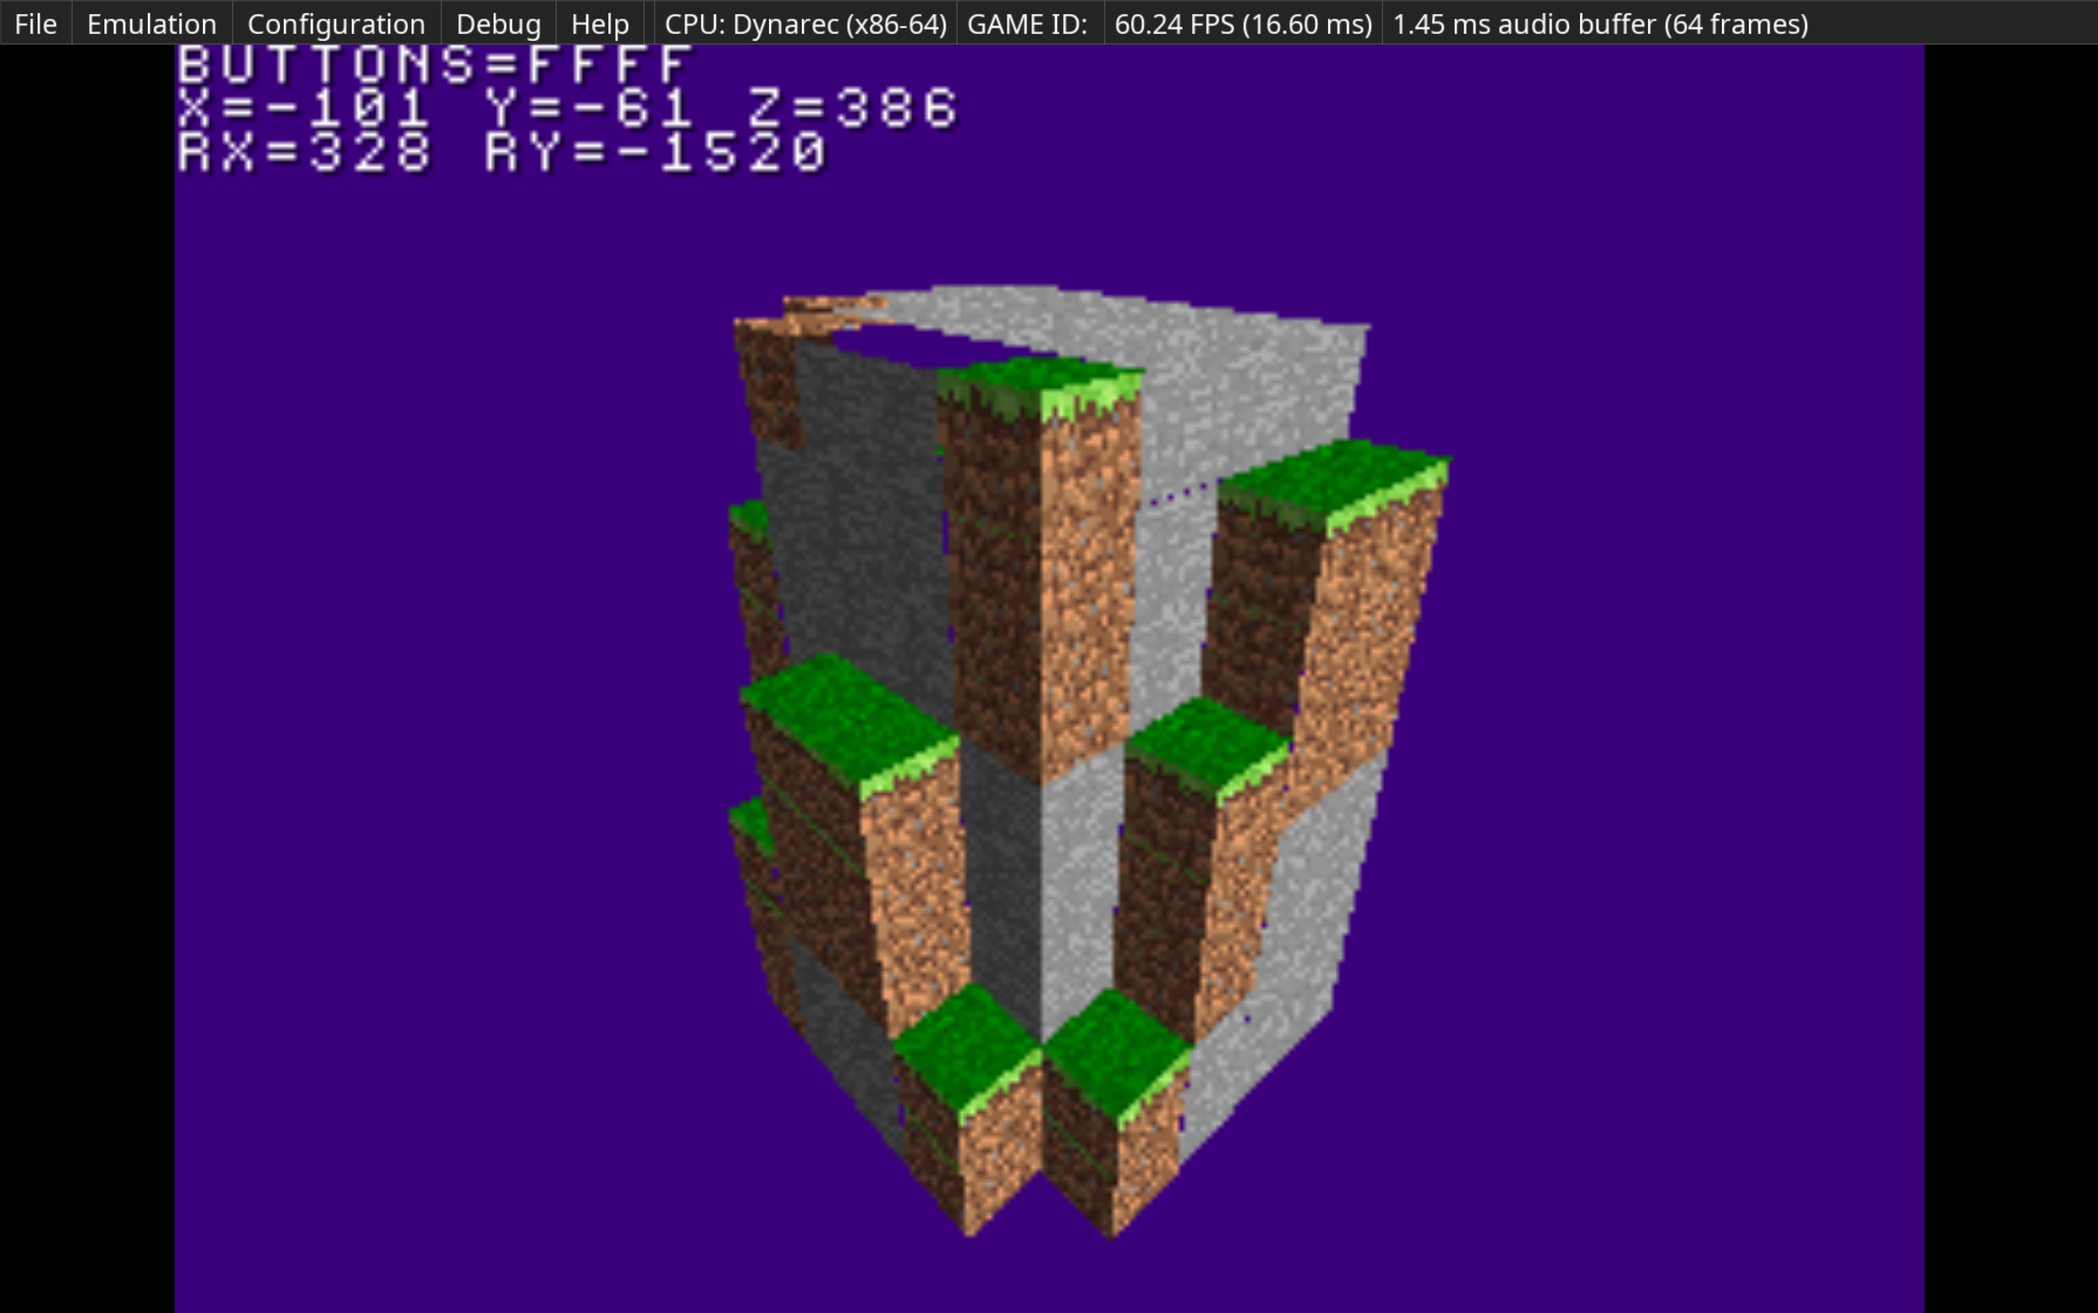
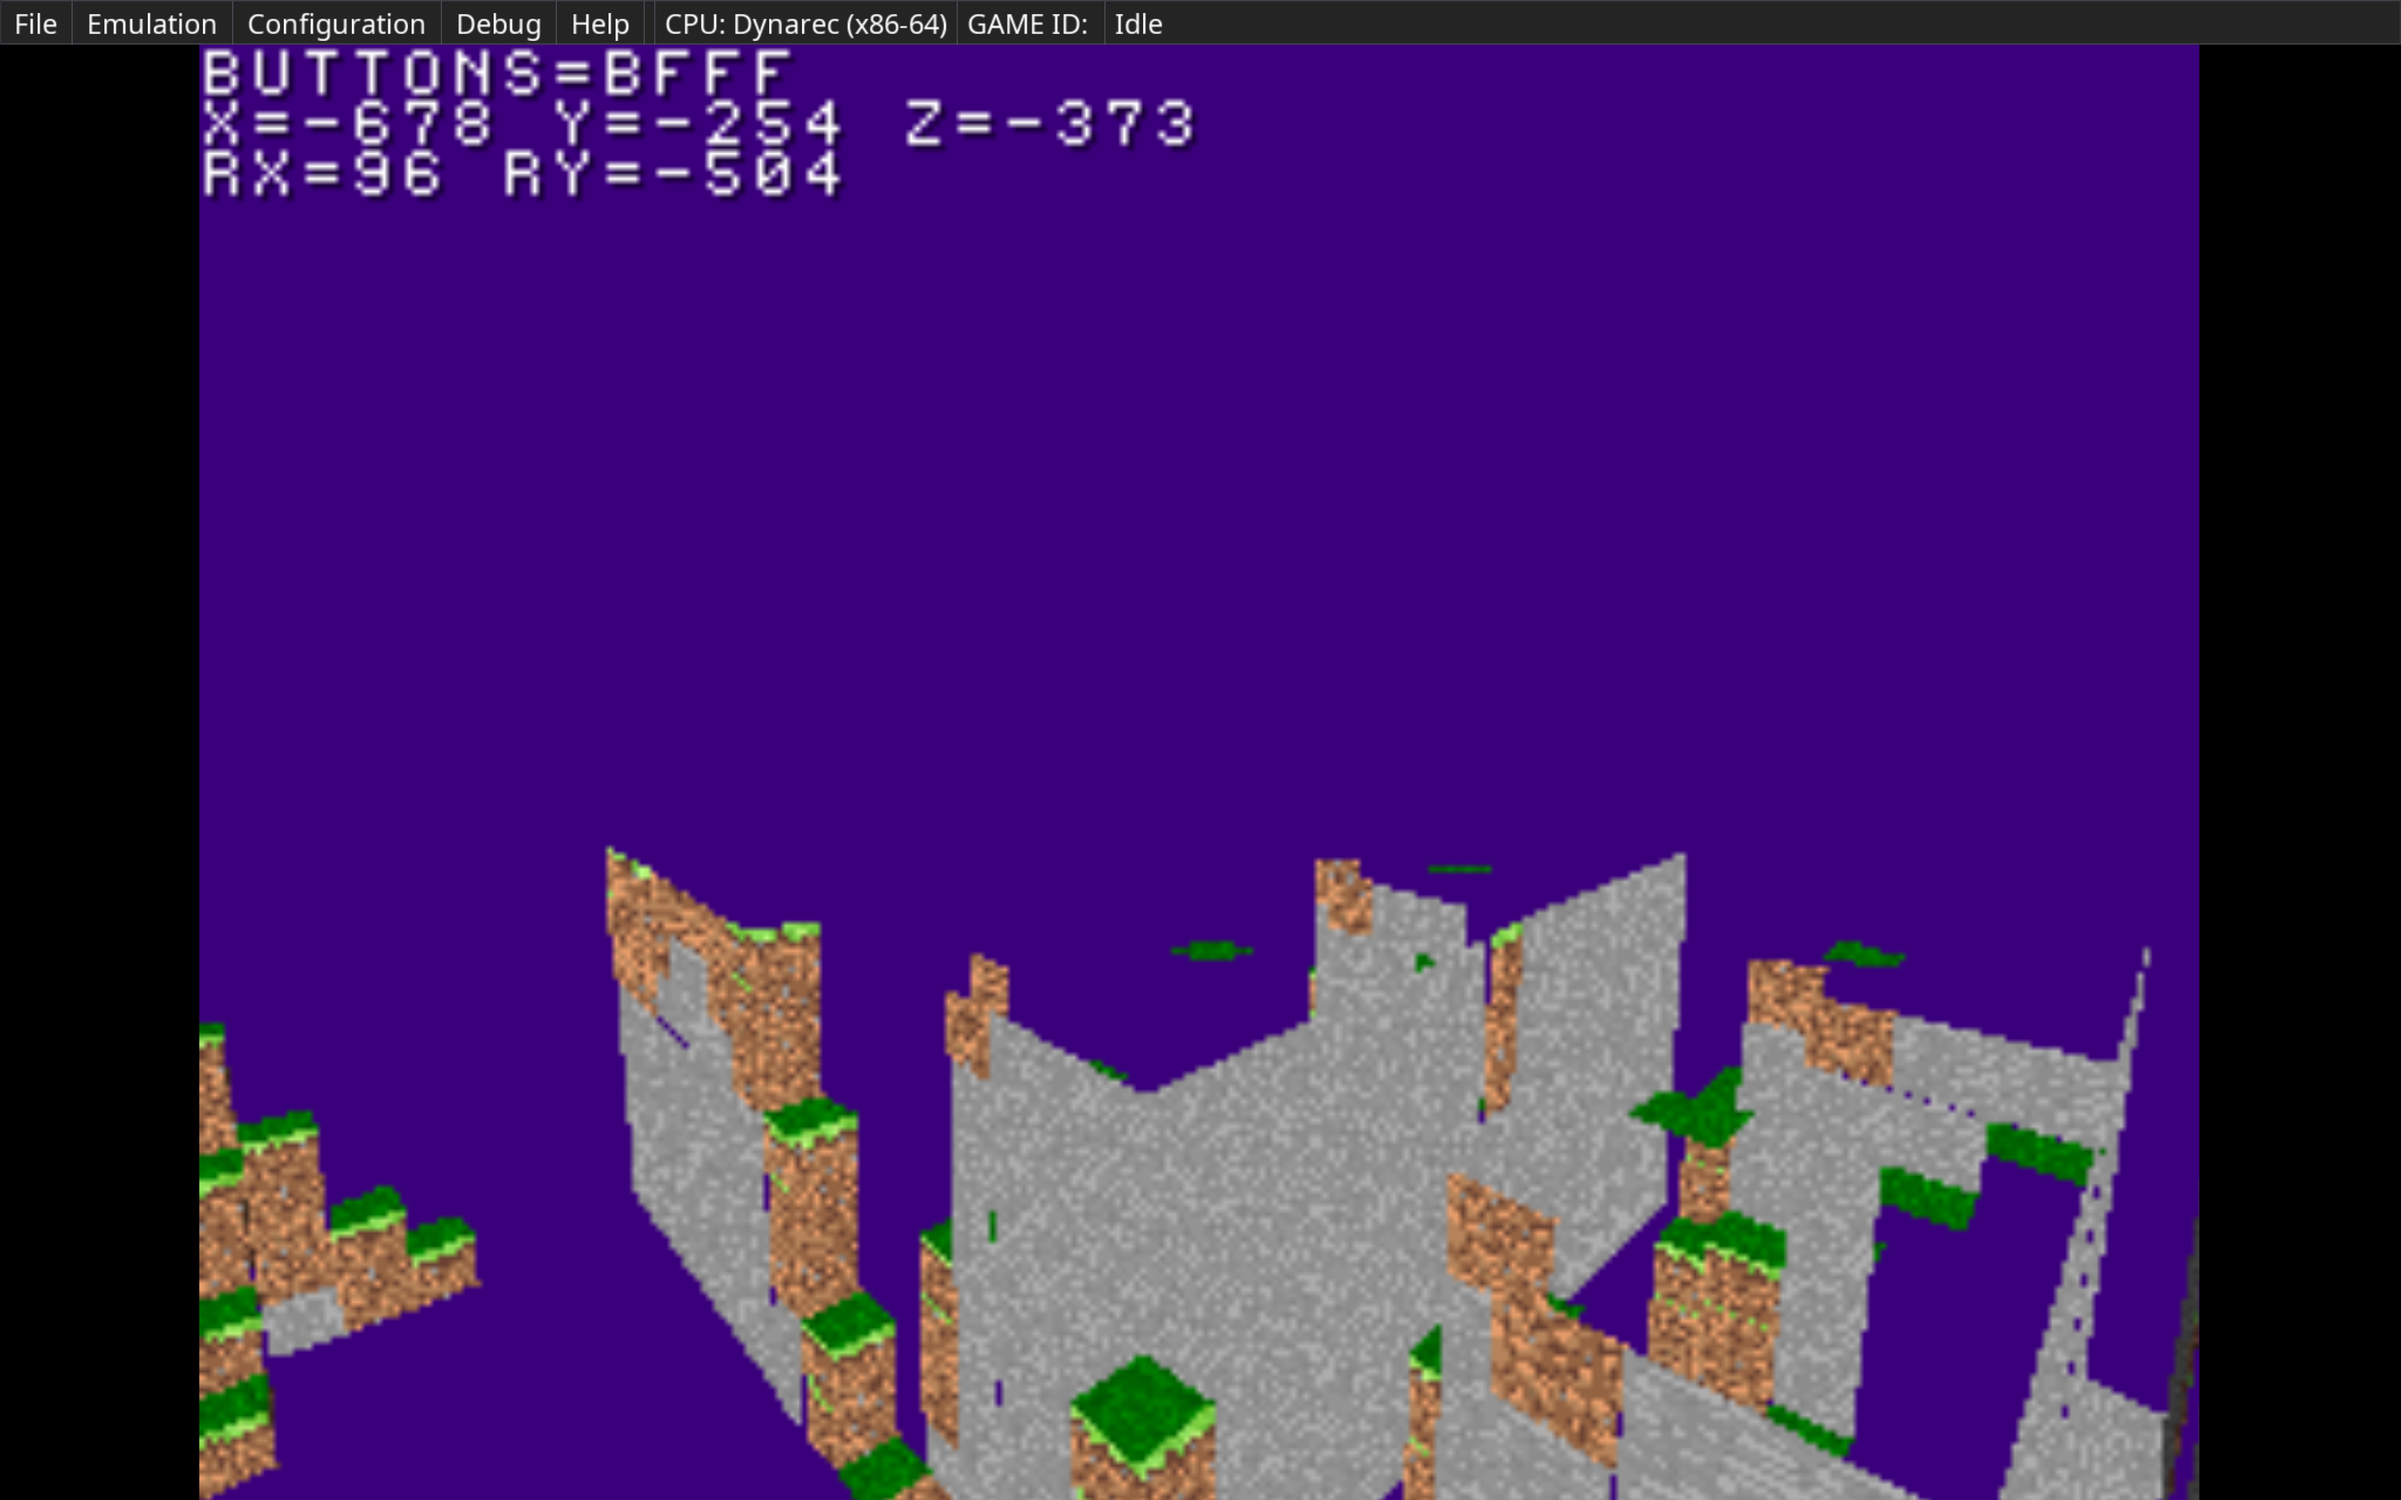
Simplified X/Z world traversal logic for loading and updated README

diff --git a/src/main.c b/src/main.c
@@ -45,14 +45,14 @@ MATRIX light_mtx = {
 };
 
 const SVECTOR CUBE_VERTICES[8] = {
-    {-25, -25, -25, 0}, // 0
-    {25, -25, -25, 0}, // 1
-    {-25, 25, -25, 0}, // 2
-    {25, 25, -25, 0}, // 3
-    {25, -25, 25, 0}, // 4
-    {-25, -25, 25, 0}, // 5
-    {25, 25, 25, 0}, // 6
-    {-25, 25, 25, 0} // 7
+    { -25, -25, -25, 0 }, // 0
+    {  25, -25, -25, 0 }, // 1
+    { -25,  25, -25, 0 }, // 2
+    {  25,  25, -25, 0 }, // 3
+    {  25, -25,  25, 0 }, // 4
+    { -25, -25,  25, 0 }, // 5
+    {  25,  25,  25, 0 }, // 6
+    { -25,  25,  25, 0 }  // 7
 };
 
 // Reference texture data
@@ -170,75 +170,5 @@ int main() {
     // chunkDestroy(&chunk);
     worldDestroy(&world);
     assetsFree();
-    return 0;
-}
-
-/** Minimal reproducable example for smashing of reallocated cvectors */
-
-typedef struct {
-    SMD smd;
-    cvector(SVECTOR) vec1;
-    cvector(SVECTOR) vec2;
-} TestMinRep;
-
-void __destruct(void *elem) {
-}
-
-void initRep(TestMinRep *rep) {
-    rep->vec1 = NULL;
-    rep->vec2 = NULL;
-    cvector_init(rep->vec1, 1, __destruct);
-    cvector_init(rep->vec2, 1, __destruct);
-}
-
-int _main() {
-    init();
-    TestMinRep obj;
-    initRep(&obj);
-    uint32_t i1 = 0;
-    uint32_t i2 = 0;
-    int should_break = 0;
-    for (int i = 0; i < 3; i++) {
-        for (int j = 0; j < 4; j++) {
-            printf("VERTEX %d: %p\n", j, obj.vec1);
-            cvector_metadata_t *meta = cvector_vec_to_base(obj.vec1);
-            printf("  [BEFORE] Size: %d, Cap: %d, Dest: %p\n", meta->size, meta->capacity, meta->elem_destructor);
-            cvector_metadata_t *meta2 = cvector_vec_to_base(obj.vec2);
-            printf("  [Normal: %p] [BEFORE] Size: %d, Cap: %d, Dest: %p\n", obj.vec2, meta2->size, meta2->capacity,
-                   meta2->elem_destructor);
-            cvector_push_back(obj.vec1, (SVECTOR){});
-            meta = cvector_vec_to_base(obj.vec1);
-            printf("  [AFTER] Size: %d, Cap: %d, Dest: %p\n", meta->size, meta->capacity, meta->elem_destructor);
-            meta2 = cvector_vec_to_base(obj.vec2);
-            printf("  [Normal: %p] [AFTER] Size: %d, Cap: %d, Dest: %p\n", obj.vec2, meta2->size, meta2->capacity,
-                   meta2->elem_destructor);
-            SVECTOR *curr = &obj.vec1[i1];
-            curr->vx = i;
-            curr->vy = j;
-            curr->vz = i1;
-            i1++;
-            // if (i == 2 && j == 1) {
-            //     should_break = 1;
-            //     break;
-            // }
-        }
-        // if (should_break) {
-        //     break;
-        // }
-        printf("NORMAL: %p\n", obj.vec2);
-        cvector_metadata_t *meta2 = cvector_vec_to_base(obj.vec2);
-        printf("  [BEFORE] Size: %d, Cap: %d, Dest: %p\n", meta2->size, meta2->capacity, meta2->elem_destructor);
-        cvector_push_back(obj.vec2, (SVECTOR){});
-        meta2 = cvector_vec_to_base(obj.vec2);
-        printf("  [AFTER] Size: %d, Cap: %d, Dest: %p\n", meta2->size, meta2->capacity, meta2->elem_destructor);
-        SVECTOR *curr1 = &obj.vec2[i2];
-        curr1->vx = i;
-        curr1->vx = i2;
-        curr1->vz = rand();
-        i2++;
-    }
-    while (1) {
-        display(&dctx);
-    }
     return 0;
 }

diff --git a/src/world/world.c b/src/world/world.c
@@ -1,5 +1,6 @@
 #include "world.h"
 
+#include <assert.h>
 #include <math_utils.h>
 
 #define wrapCoord(world, axis, coord) positiveModulo(((world)->head.axis + (coord)), AXIS_CHUNKS)
@@ -119,17 +120,12 @@ void worldUnloadChunk(Chunk *chunk) {
 void worldLoadChunksX(World *world, const int8_t x_direction, const int8_t z_direction) {
     // Load x_direction chunks
     int32_t x_shift_zone = world->centre.vx + ((LOADED_CHUNKS_RADIUS + SHIFT_ZONE) * x_direction);
-    int32_t z_start;
-    int32_t z_end;
+    int32_t z_start = world->centre.vz - LOADED_CHUNKS_RADIUS;
+    int32_t z_end = world->centre.vz + LOADED_CHUNKS_RADIUS;
     if (z_direction == -1) {
-        z_start = world->centre.vz - LOADED_CHUNKS_RADIUS;
-        z_end = world->centre.vz + LOADED_CHUNKS_RADIUS - SHIFT_ZONE;
+        z_end -= SHIFT_ZONE;
     } else if (z_direction == 1) {
-        z_start = world->centre.vz - LOADED_CHUNKS_RADIUS + SHIFT_ZONE;
-        z_end = world->centre.vz + LOADED_CHUNKS_RADIUS;
-    } else {
-        z_start = world->centre.vz - LOADED_CHUNKS_RADIUS;
-        z_end = world->centre.vz + LOADED_CHUNKS_RADIUS;
+        z_start += SHIFT_ZONE;
     }
     for (int z_coord = z_start; z_coord <= z_end; z_coord++) {
         for (int y = 0; y < WORLD_CHUNKS_HEIGHT; y++) {
@@ -155,17 +151,16 @@ void worldLoadChunksX(World *world, const int8_t x_direction, const int8_t z_dir
 void worldLoadChunksZ(World *world, const int8_t x_direction, const int8_t z_direction) {
     // Load z_direction chunks
     int32_t z_shift_zone = world->centre.vz + ((LOADED_CHUNKS_RADIUS + SHIFT_ZONE) * z_direction);
-    int32_t x_start;
-    int32_t x_end;
+    int32_t x_start = world->centre.vx - LOADED_CHUNKS_RADIUS;;
+    int32_t x_end = world->centre.vx + LOADED_CHUNKS_RADIUS;
+    /* Can be simplified to:
+     * int32_t x_start = world->centre.vx - LOADED_CHUNKS_RADIUS + ((x_direction == -1) * SHIFT_ZONE);
+     * int32_t x_end = world->centre.vz + LOADED_CHUNKS_RADIUS - ((x_direction == 1) * SHIFT_ZONE);
+     */
     if (x_direction == -1) {
-        x_start = world->centre.vx - LOADED_CHUNKS_RADIUS;
-        x_end = world->centre.vx + LOADED_CHUNKS_RADIUS - SHIFT_ZONE;
+        x_end -= SHIFT_ZONE;
     } else if (x_direction == 1) {
-        x_start = world->centre.vx - LOADED_CHUNKS_RADIUS + SHIFT_ZONE;
-        x_end = world->centre.vx + LOADED_CHUNKS_RADIUS;
-    } else {
-        x_start = world->centre.vx - LOADED_CHUNKS_RADIUS;
-        x_end = world->centre.vx + LOADED_CHUNKS_RADIUS;
+        x_start += SHIFT_ZONE;
     }
     for (int x_coord = x_start; x_coord <= x_end; x_coord++) {
         for (int y = 0; y < WORLD_CHUNKS_HEIGHT; y++) {

diff --git a/src/world/chunk/chunk.h b/src/world/chunk/chunk.h
@@ -12,7 +12,7 @@
 #include "../../util/fast_noise_lite.h"
 
 // !BUG: Why does 16 not render anything but 8 does?
-#define CHUNK_SIZE 16
+#define CHUNK_SIZE 8
 #define CHUNK_DATA_SIZE (CHUNK_SIZE * CHUNK_SIZE * CHUNK_SIZE)
 #define CHUNK_DIRECTIONS 3
 #define CHUNK_AXIS_NEIGHBOURS (CHUNK_DIRECTIONS * 2)

diff --git a/README.md b/README.md
@@ -75,8 +75,7 @@ CMake within the Docker context attached to CLion. To the following to set this 
 
 ## Progress
 
-Work so far, current progress being made on world chunk loading/unloading, inter-chunk meshing and fixes to greedy
-meshing problems with rogue vertex creation.
+Work so far, current progress being made on world chunk loading/unloading.
 
 |                                                 |                                                 |
 |-------------------------------------------------|-------------------------------------------------|
